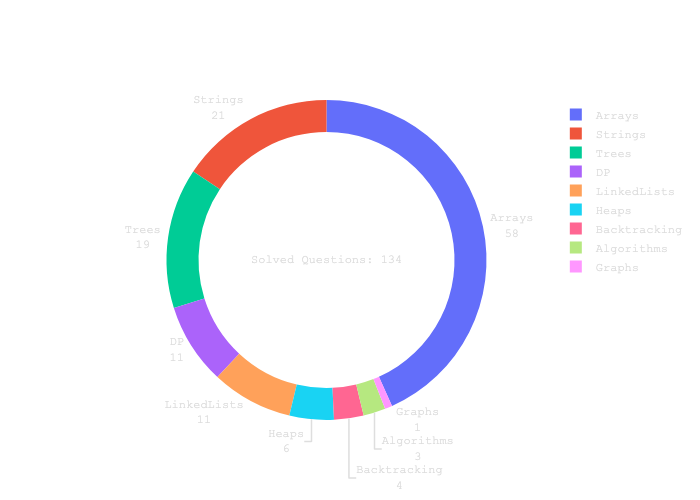
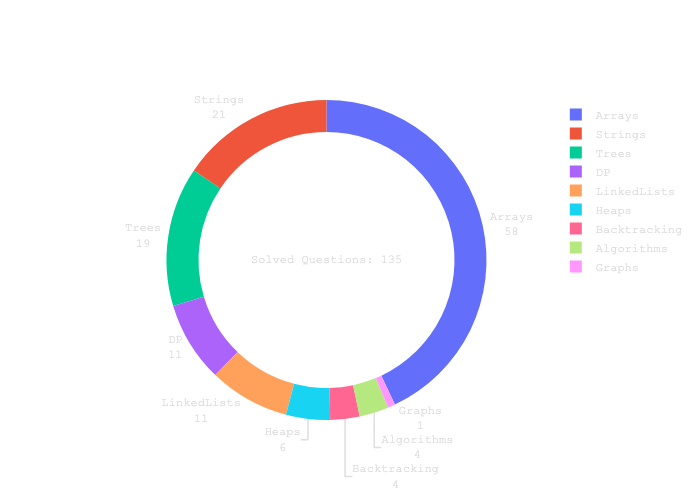
jumpGame

diff --git a/DP/jumpGame.py b/DP/jumpGame.py
@@ -1,6 +1,21 @@
 from typing import List
 
 
+def jumpGame(nums: List[int]) -> bool:
+    N = len(nums)
+    maxJump = 0
+    for i in range(N):
+        if i > 0 and i > maxJump:
+            return False
+        if nums[i] + i > maxJump:
+            maxJump = nums[i] + i
+    return True
+
+
+print(jumpGame([2, 3, 1, 1, 4]))
+print(jumpGame([3, 2, 1, 0, 4]))
+
+
 def jumpGameII(nums: List[int]) -> int:
     N = len(nums)
     jumps = max_end = cur_end = 0
@@ -14,7 +29,7 @@ def jumpGameII(nums: List[int]) -> int:
     return jumps
 
 
-print(jumpGameII([2, 3, 1, 1, 4]))
-print(jumpGameII([2, 3, 0, 1, 4]))
-print(jumpGameII([4, 1, 1, 3, 1, 1, 1]))
-print(jumpGameII([1, 1, 1, 1]))
+# print(jumpGameII([2, 3, 1, 1, 4]))
+# print(jumpGameII([2, 3, 0, 1, 4]))
+# print(jumpGameII([4, 1, 1, 3, 1, 1, 1]))
+# print(jumpGameII([1, 1, 1, 1]))

diff --git a/Algorithms/myPow.py b/Algorithms/myPow.py
@@ -1,0 +1,17 @@
+def myPow(x: float, n: int) -> int:
+
+    def pow(res, n):
+        if n == 0:
+            return 1
+        else:
+            return res * pow(res, n - 1)
+
+    if n < 0:
+        return 1 / pow(x, -n)
+    else:
+        return pow(x, n)
+
+
+print(myPow(2, 10))
+print(myPow(2.1, 3))
+print(myPow(2, -2))
